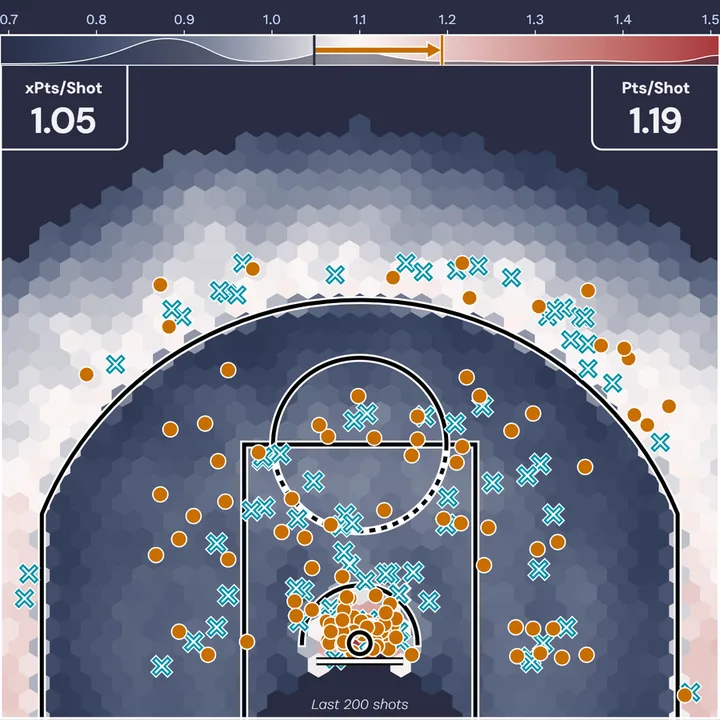
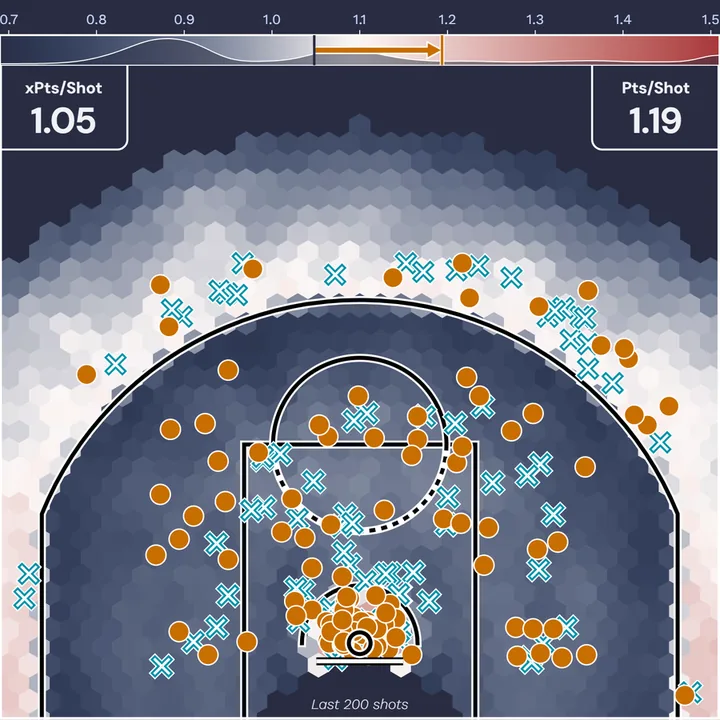
Homepage: the NBA Shot Charts tile with the 20px shot markers
Recaptured from the live page (Shai Gilgeous-Alexander's 2025-26 season,
#324's markers) and cropped by make_tiles.py; tile ?v=10.

diff --git a/index.html b/index.html
@@ -284,7 +284,7 @@
 								<div class="tiles">
 									<article class="style2">
 									<span class="image">
-										<img src="images/tile-nba-shot-charts.webp?v=9" srcset="images/tile-nba-shot-charts-720.webp?v=9 720w, images/tile-nba-shot-charts.webp?v=9 900w" sizes="(max-width: 480px) 100vw, (max-width: 980px) 50vw, 380px" width="900" height="900" alt="NBA shot chart: makes and misses over a court shaded by expected points per shot" />
+										<img src="images/tile-nba-shot-charts.webp?v=10" srcset="images/tile-nba-shot-charts-720.webp?v=10 720w, images/tile-nba-shot-charts.webp?v=10 900w" sizes="(max-width: 480px) 100vw, (max-width: 980px) 50vw, 380px" width="900" height="900" alt="NBA shot chart: makes and misses over a court shaded by expected points per shot" />
 									</span>
 									<a href="/nba-shot-charts/">
 										<h2>NBA Shot Charts</h2>
